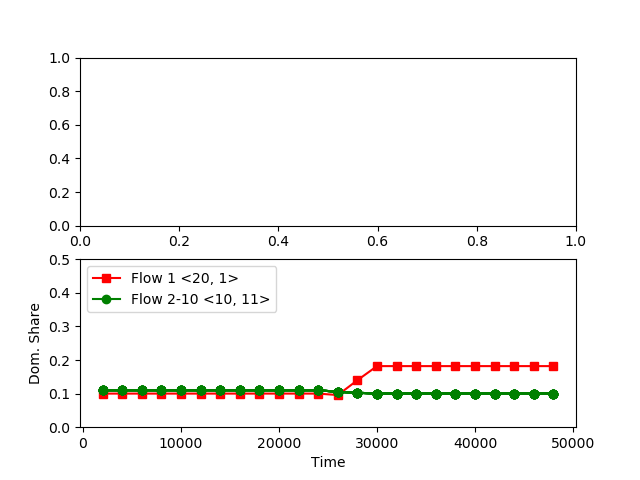
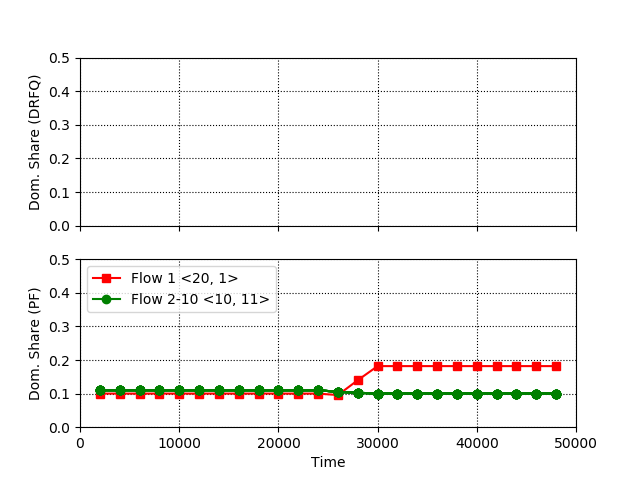
minor style things

diff --git a/figures/figure_12.py b/figures/figure_12.py
@@ -1,11 +1,11 @@
 import numpy as np
 import matplotlib.pyplot as plt
-import PF_simulation as PF
+import FQ_simulation as FQ
 
 #---------------------------------------------------------------
 # Confirming resource shares in 4.2
-pf1 = PF.PFSimulator([PF.Flow((4, 1)), PF.Flow((1, 2))], maxTime = 2001)[0]
-pf2 = PF.PFSimulator([PF.Flow((4, 2)), PF.Flow((1, 2))], maxTime = 2001)[0]
+pf1 = FQ.PFSimulator([FQ.Flow((4, 1)), FQ.Flow((1, 2))], maxTime = 2001)[0]
+pf2 = FQ.PFSimulator([FQ.Flow((4, 2)), FQ.Flow((1, 2))], maxTime = 2001)[0]
 
 print('Profile\t Resource 1 \t\t Resource 2')
 print('<4, 1>:\t', pf1[0][1], '\t', pf1[0][2])
@@ -16,11 +16,11 @@ print('<1, 2>:\t', pf2[1][1], '\t\t\t', pf2[1][2])
 #---------------------------------------------------------------
 # Plotting Figure 12
 # generate the 10 flows
-flows = [PF.Flow((20, 1), startTime = 0, endTime = 25000)]
-flows += [PF.Flow((20, 11), startTime = 25000, endTime = 50000)]
-flows += [PF.Flow((10, 11), startTime = 0, endTime = 50000) for i in range(9)]
+flows = [FQ.Flow((20, 1), startTime = 0, endTime = 25000)]
+flows += [FQ.Flow((20, 11), startTime = 25000, endTime = 50000)]
+flows += [FQ.Flow((10, 11), startTime = 0, endTime = 50000) for i in range(9)]
 # print(flows)
-pf = PF.PFSimulator(flows, maxTime = 50000, sampleSize = 800, bufferThreshold = 2)
+pf = FQ.PFSimulator(flows, maxTime = 50000, sampleSize = 800, bufferThreshold = 2)
 _fig, axs = plt.subplots(2, 1)
 
 # pf[time][flow][resource]
@@ -37,11 +37,14 @@ for i in range(2, 11):
     else: axs[1].plot(time, domRest, jobStyle[1])
 
 # setting axis labels
-
-axs[1].set(xlabel='Time', ylabel='Dom. Share')
-axs[1].set_ylim([0, 0.5])
+axs[0].set(xlabel='Time', ylabel='Dom. Share (DRFQ)')
+axs[1].set(xlabel='Time', ylabel='Dom. Share (PF)')
 axs[1].legend(loc = 'upper left')
-
+for i in range(2):
+    axs[i].grid(ls=':', color='black')
+    axs[i].set_xlim([0, 50000])
+    axs[i].set_ylim([0, 0.5])
+    axs[i].label_outer()
 plt.savefig('figure_12.png')
 plt.show()
 

diff --git a/figures/figure_11.py b/figures/figure_11.py
@@ -1,11 +1,11 @@
 import matplotlib.pyplot as plt
-import PF_simulation
+import FQ_simulation as FQ
 
 
 #---------------------------------------------------------------
 # Plotting Figure 11
-sf = PF_simulation.SFSimulator([PF_simulation.Flow((0.1, 1), startTime = 15000, endTime = 85000), \
-    PF_simulation.Flow((1, 1), startTime = 0, endTime = 100000)], maxTime = 100000)
+sf = FQ.SFSimulator([FQ.Flow((0.1, 1), startTime = 15000, endTime = 85000), \
+    FQ.Flow((1, 1), startTime = 0, endTime = 100000)], maxTime = 100000)
 _fig, axs = plt.subplots(3, 1)
 
 # sf[time][flow][resource]
@@ -16,18 +16,20 @@ for i in range(2): # for each flow
     rsc1 = [sf[t][i][1] for t in range(len(sf))] # resource 1
     rsc2 = [sf[t][i][2] for t in range(len(sf))] # resource 2
     dom = [max(sf[t][i][1], sf[t][i][2]) for t in range(len(sf))] # dominant resource 
-    axs[2].plot(time, rsc1, jobStyle[i])
-    axs[1].plot(time, rsc2, jobStyle[i])
+    axs[1].plot(time, rsc1, jobStyle[i])
+    axs[2].plot(time, rsc2, jobStyle[i])
     axs[0].plot(time, dom, jobStyle[i], label=label[i])
 
 # setting axis labels
-axs[2].set(xlabel='Time', ylabel='Res. 1 Share')
-axs[1].set(xlabel='Time', ylabel='Res. 2 Share')
+axs[1].set(xlabel='Time', ylabel='Res. 1 Share')
+axs[2].set(xlabel='Time', ylabel='Res. 2 Share')
 axs[0].set(xlabel='Time', ylabel='Dom. Share')
 for i in range(3):
     axs[i].set_ylim([0, 1.0])
+    axs[i].set_xlim([0, 100000])
+    axs[i].grid(ls=':', color='black')
+    axs[i].label_outer()
 axs[0].legend(loc = 'center right')
-
 plt.savefig('figure_11.png')
-plt.show()
+# plt.show()
 
